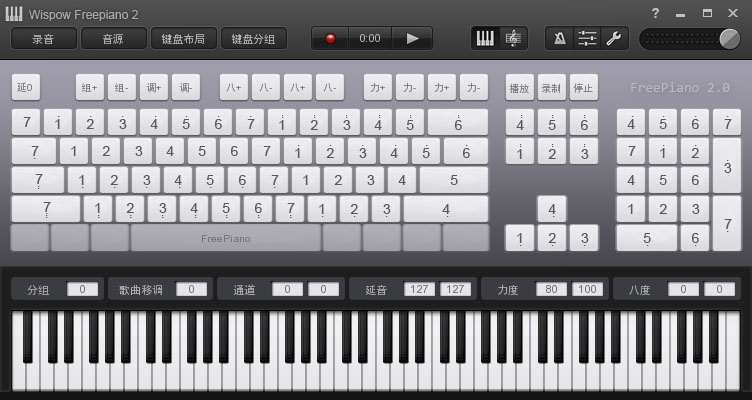
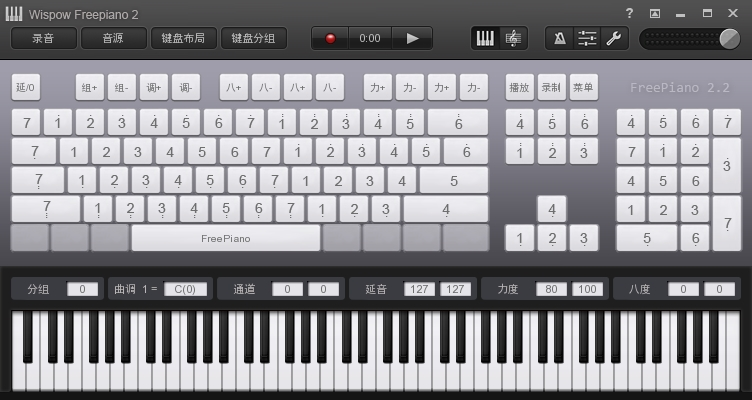
Freepiano 2.2 documents update

diff --git a/cn/docs/_posts/2013-02-02-scripts.md b/cn/docs/_posts/2013-02-02-scripts.md
@@ -29,7 +29,7 @@ lang: cn
 
 ## 命令绑定方式
 
-我们编写的脚本是绑定在按键上，在键盘按下或松开时执行。FreePiano中定义了4个绑定方式：
+我们编写的脚本是绑定在按键上，在键盘按下或松开时执行。FreePiano中定义了以下绑定方式：
 
 <table>
 <thead>
@@ -59,6 +59,11 @@ lang: cn
 <td>颜色</td>
 <td><p>定义按键按下时的颜色，如果没有定义，将使用配置中的自动颜色值。</p></td>
 </tr>
+<tr>
+<td>Sequence</td>
+<td>序列</td>
+<td><p>指定按键命令的序列分割，每次按键只会触发当前序列的命令，然后自动切换到下一个序列。</p></td>
+</tr>
 </tbody>
 </table>
 
@@ -85,7 +90,13 @@ lang: cn
 
 音符的名称这里要用统一的音名表示。
 
-这里还可以填写一个力度， 最小0，最大127。 如果填写127或者不填，FreePiano会使用最大力度。 这个力度会再受通道力度的影响。
+这里还可以填写一个力度， 最小0，最大255。 如果填写127或者不填，FreePiano会使用100%的力度。 这个力度值成为“独立力度”，它和通道的力度是成比例关系的， 换算公式为：
+
+{% highlight bash %}
+最终力度 = 独立力度 * 通道力度 / 127
+{% endhighlight %}
+
+换算过后，大于127的力度会认为是最大力度，而小于5的力度会被认为是按键抬起。
 
 示范：一键多音脚本
 {% highlight bash %}
@@ -96,6 +107,18 @@ lang: cn
 {% endhighlight %}
 
 将上面的命令拷贝到任何一个按键的脚本里， 然后按下这个按键就可以听到效果。
+
+
+示范：音符序列脚本
+{% highlight bash %}
+键盘按下  A   音符    输入_0    C4
+序列      A
+键盘按下  A   音符    输入_0    E4
+序列      A
+键盘按下  A   音符    输入_0    G4
+序列      A
+键盘按下  A   音符    输入_0    C5
+{% endhighlight %}
 
 ## 参数修改命令
 参数修改有2种，一种是全局参数，比如曲调，另外一种是通道参数，比如力度。
@@ -204,10 +227,22 @@ lang: cn
 <td>通道</td>
 <td><p>颤音轮</p></td>
 </tr>
+<tr>
+<td>ChannelVolume</td>
+<td>通道音量</td>
+<td>通道</td>
+<td><p>单独控制每个通道的音量，需要音源支持</p></td>
+</tr>
+<tr>
+<td>ChannelPan</td>
+<td>通道声像</td>
+<td>通道</td>
+<td><p>单独控制每个通道的声像，需要音源支持</p></td>
+</tr>
 </tbody>
 </table>
 
-用脚本修改参数时，您可以指定对于参数的操作， 这是FreePiano的命令有点像脚本的地方那个，因为使用参数操作， 您可以实现很多复杂的效果。
+用脚本修改参数时，可以指定对于参数的操作， 这是FreePiano的命令有点像脚本的地方，因为使用参数操作， 可以实现很多复杂的效果。
 
 FreePiano提供了以下的参数操作：
 <table>
@@ -241,7 +276,14 @@ FreePiano提供了以下的参数操作：
 <tr>
 <td>Press</td>
 <td>脉冲</td>
-<td><p>新值 = 值, 20毫秒以后， 新值 = 当前值</p></td>
+<td><p>新值 = 值; 20毫秒以后， 新值 = 当前值</p></td>
+</tr>
+<tr>
+<tr>
+<td>Release</td>
+<td>释放</td>
+<td><p>新值 = 值; 任意一个按键抬起前，新值 = 当前值</p></td>
+
 </tr>
 <tr>
 <td>Set10</td>
@@ -344,6 +386,11 @@ FreePiano提供了以下的参数操作：
 <td>MIDI</td>
 <td><p>发送原始的MIDI消息。</p></td>
 </tr>
+<tr>
+<td>Menu</td>
+<td>菜单</td>
+<td><p>可以用按键弹出主菜单。</p></td>
+</tr>
 </tbody>
 </table>
 
@@ -352,3 +399,25 @@ FreePiano提供了以下的参数操作：
 {% highlight html %}
 键盘按下  A   MIDI    90 40 7f
 {% endhighlight %}
+
+## 序列和序列跳转命令
+Freepiano 2.2 引入了按键序列的功能， 用于完成更为复杂功能。序列的基本概念就是在一个按键绑定时，将命令分成若干个“序列”，每次按键按下，执行一个序列，然后自动切换到下一个，完成后循环。
+
+序列命令格式：
+{% highlight xml %}
+序列  A   <标签>
+{% endhighlight %}
+
+在序列命令上，可以指定一个标签， 这个标签是一个非0的数字，标签0表示的是序列开始。
+
+序列跳转命令格式：
+{% highlight xml %}
+键盘按下  A   序列跳转  <标签>  <按键>
+{% endhighlight %}
+
+这条命令可以控制某个按键的序列跳转到一个匹配的标签上，如果没有匹配的标签，则没有任何影响。
+如果标签是0，则会跳转到序列的开始。
+
+如果没有填写按键，则会控制当前按下的键的序列跳转。
+
+按键可以是“全部按键”， 表示控制同时控制所有按键的序列跳转。常用的序列重置命令其实就是控制所有按键跳转到0序列。

diff --git a/en/docs/_posts/2013-02-02-scripts.md b/en/docs/_posts/2013-02-02-scripts.md
@@ -54,6 +54,10 @@ You can trigger a command when a key is being pressed or released. there are 4 t
 <td>Color</td>
 <td><p>Highlight color when the key is pressed.</p></td>
 </tr>
+<tr>
+<td>Sequence</td>
+<td><p>Split key command to sequences, when that key is pressed, only one piece of commands is executed, then switch to next piece.</p></td>
+</tr>
 </tbody>
 </table>
 
@@ -82,12 +86,22 @@ Note names is from C0 to C10.
 
 Velocity here is optional, default value is 127. this velocity is scaled by channel velocity.
 
-示范：一键多音脚本
 Demo: play 4 notes when hit a key:
 {% highlight bash %}
 Keydown  A   Note    In_0    C4
 Keydown  A   Note    In_0    E4
 Keydown  A   Note    In_0    G4
+Keydown  A   Note    In_0    C5
+{% endhighlight %}
+
+Demo: play different note everytime when this key is pressed:
+{% highlight bash %}
+Keydown  A   Note    In_0    C4
+Sequence A
+Keydown  A   Note    In_0    E4
+Sequence A
+Keydown  A   Note    In_0    G4
+Sequence A
 Keydown  A   Note    In_0    C5
 {% endhighlight %}
 
@@ -217,6 +231,10 @@ When setting parameter, you can change value in different ways:
 <td><p>new_value = value; wait 20ms; new_value = current_value</p></td>
 </tr>
 <tr>
+<td>Release</td>
+<td><p>new_value = value; before any key is released, new_value = current_value</p></td>
+</tr>
+<tr>
 <td>Set10</td>
 <td><p>new_value[digit 10] = value[digit 10]</p></td>
 </tr>
@@ -304,6 +322,10 @@ When the key is pressed, transpose of input channel 1 is increased by 1, at the 
 <td>MIDI</td>
 <td><p>Send a raw MIDI message</p></td>
 </tr>
+<tr>
+<td>Menu</td>
+<td><p>Popup main menu</p></td>
+</tr>
 </tbody>
 </table>
 
@@ -312,3 +334,28 @@ The MIDI command can output a raw MIDI event, at most 4 bytes can be send now, f
 {% highlight html %}
 Keydown  A   MIDI    90 40 7f
 {% endhighlight %}
+
+
+## Sequence and SequenceGoto command.
+Sience Freepiano 2.2, a new Sequence mode is implemented. when a key first presses, commands before a 'Sequence' command is executed, when that key pressed again, other commands until next 'Sequence' command is executed.
+
+Syntax of 'Sequence' command:
+{% highlight xml %}
+Sequence  A   <Label>
+{% endhighlight %}
+
+A 'Label' is a number greater than 0, 0 means the very beginning of this sequence.
+
+Syntax of 'SequenceGoto' command:
+{% highlight xml %}
+Keydown  A   SequenceGoto <Label>  <Key>
+{% endhighlight %}
+
+This command can control a key's current sequence position, by jumping to a matched label. If no label is matched, this command does nothing.
+
+If the label is 0, Jumping to the beginning.
+
+When the key parameter is missing, controlling current pressed key.
+
+A Key can be 'AllKeys', means control all keys at the same time, most frequently used is reset all key sequences to the beginning.
+

diff --git a/en/docs/_posts/2013-01-04-synth.md b/en/docs/_posts/2013-01-04-synth.md
@@ -9,7 +9,7 @@ lang: en
 FreePiano can only generate MIDI signals, it needs a synthesizer to render MIDI signals to audio signals. 
 
 <div class="note info">
-<h5>FreePiano support MIDI and VSTi synthsizers</h5>
+<h5>FreePiano support MIDI, VSTi and SF2 synthsizers</h5>
 <p>Only VSTi synthsizers outputs wave signal back to freepiano, So if you use a MIDI synthizer, you can not export your song.</p>
 </div>
 
@@ -25,8 +25,10 @@ If FreePiano didn't find you plug-in, you can load it manually via menu `Instrum
 
 If your have so much VST plugs that freepiano become very slow to show the instrument menu, you can hide all plugins by uncheck `Config -> Options -> GUI -> Show VSTi instruments`
 
-## Show instrument UI
-To show the UI of current loaded plugin, select `Instrument -> Show VST GUI`.
+To show the UI of current loaded VST plugin, select `Instrument -> Show VST GUI`.
+
+## Use a SF2 sound font
+FreePiano load sf2 sound fonts through a plugin, this plugin is included in freepiano distributions. Put your sound fonts under 'sf2' subfolder in freepiano install directory, and then select SF2 files using `instrument` menu.
 
 ## Select audio output device
 When a VSTi plugin is loaded, sound is outputed through FreePiano. you can change output devices in config page `Config -> Options -> Audio`. FreePiano will try to find a best device by default.

diff --git a/en/docs/_posts/2013-02-01-channels.md b/en/docs/_posts/2013-02-01-channels.md
@@ -14,7 +14,7 @@ A input channel is what you send signal to, and then freepiano translated the si
 Multiply input channels can have signals outputed to a same output channel, parameters of input channel (most are note transpose) is calculated on a note before sending to output. MIDI channel have no such thing like 'Transpose'.
 
 
-Let's take a look at the channel options in FreePiano 1.8:
+Let's take a look at the channel options in FreePiano:
 
 ![Channel settings]({{ site.baseurl }}/en/docs/img/channel_setting.png)
 
@@ -50,7 +50,7 @@ Most parameters of input channel is used to transpose notes:
   <td>Transpose by octaves(12 seminotes)</td>
 </tr>
 <tr>
-  <td>Output Channel</td>
+  <td>Channel</td>
   <td><p>Which channel the final MIDI message will send to.</p></td>
 </tr>
 </tbody>
@@ -73,6 +73,14 @@ Output channel is MIDI channel, parameters translated into MIDI messages.
 <tr>
   <td>Program</td>
   <td><p>Program Change in MIDI, for select voice on a channel.</p></td>
+</tr>
+<tr>
+  <td>Volume</td>
+  <td><p>Controller 7 in MIDI, for chagne volume on a channel.</p></td>
+</tr>
+<tr>
+  <td>Pan</td>
+  <td><p>Controller 10 in MIDI, for change pan on a channel.</p></td>
 </tr>
 <tr>
   <td>Sustain</td>

diff --git a/en/docs/_posts/2013-01-03-gui-settings.md b/en/docs/_posts/2013-01-03-gui-settings.md
@@ -11,14 +11,9 @@ FreePiano uses notation by default, if you are not suited, you can custom notes 
 2. Fixed roll method, notation indicates.
 3. Musical alphabet method, note name indicates.
 
-<div class="note question">
-<h5>Why there are only sharp notes?</h5>
-<p>In MIDI, the note is represented by a number from 0-127, based on figures in FreePiano expressed within the same note, while the melody is just a pitch shift, FreePiano did not distinguish between the size of the song tune, so only can be used consistently sharp symbol to represent notes.</p>
-</div>
-
 ## Changing the type of note display
 
-To modify how the note is displayed, select `Config -> Options -> GUI`
+To modify how the note is displayed, first click on the `Option` icon, then select `GUI`
 
 ![GUI Settings]({{ site.baseurl }}/en/docs/img/gui_setting.png)
 
